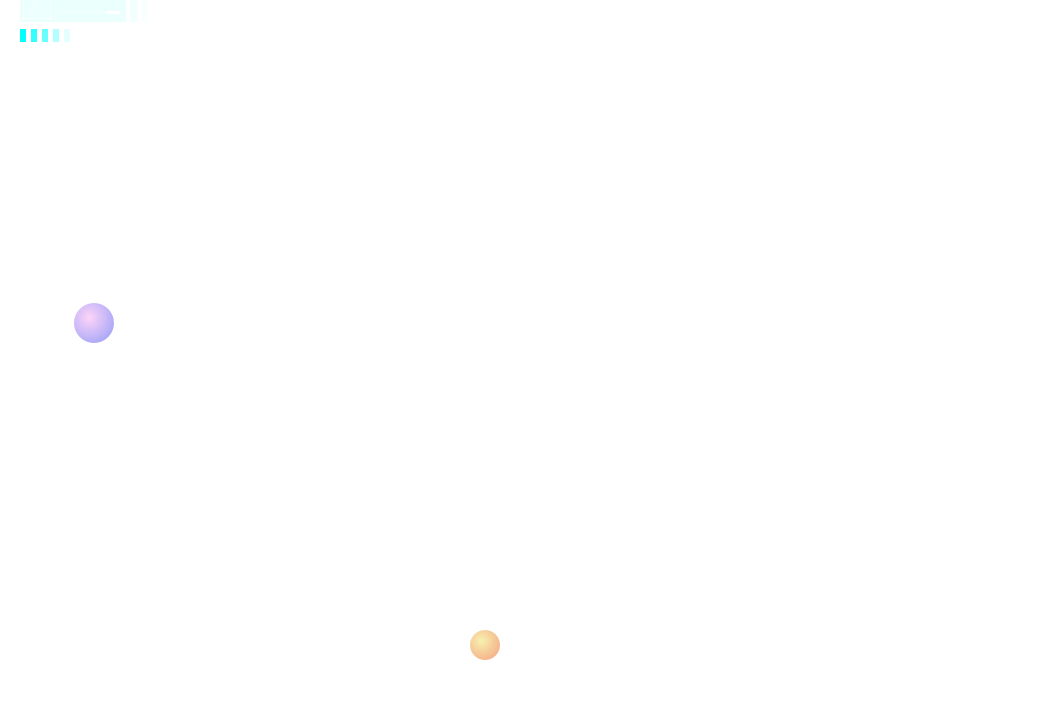
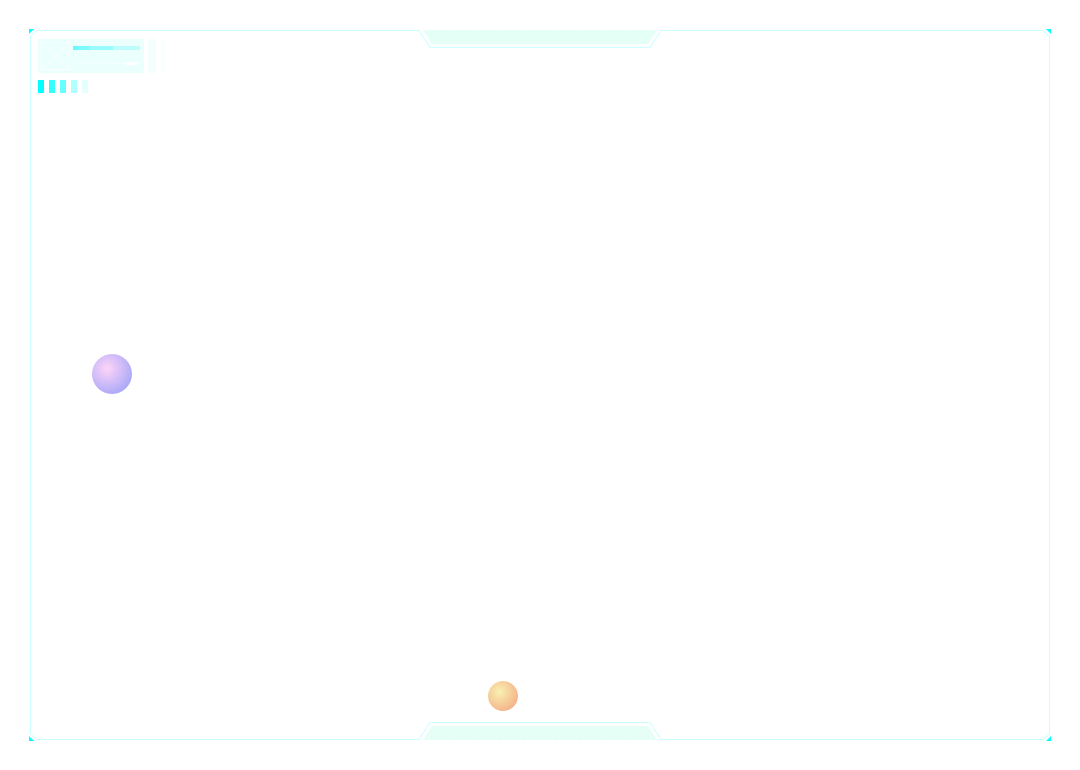
完成首页右边部分

diff --git a/match-web/page/home/home.html b/match-web/page/home/home.html
@@ -151,9 +151,6 @@
                     </div>
                 </div>
                 <div class="home-middle-box">
-                    <div class="middle-bg-icon middle-bg-icon1"></div>
-                    <div class="middle-bg-icon middle-bg-icon2"></div>
-                    <div class="middle-bg-icon middle-bg-icon3"></div>
                     <div class="grap-box">
 
                     </div>
@@ -177,7 +174,21 @@
                         <em style="width: 140px" class="right"></em>
                     </div>
                     <div class="home-right-content">
-                        <div class="home-dynamic"></div>
+                        <div class="home-dynamic">
+                            <div class="home-dynamic-content">
+                                <ul>
+                                    <li><div class="content"><i>王小明</i>完成XXXXX题，获得<i>20分</i>，当前累积得分<i>20分</i>，团队总分<i>120分</i></div></li>
+                                    <li><div class="content"><i>王小明</i>完成XXXXX题，获得<i>20分</i>，当前累积得分<i>20分</i>，团队总分<i>120分</i></div></li>
+                                    <li><div class="content"><i>王小明</i>完成XXXXX题，获得<i>20分</i>，当前累积得分<i>20分</i>，团队总分<i>120分</i></div></li>
+                                    <li><div class="content"><i>王小明</i>完成XXXXX题，获得<i>20分</i>，当前累积得分<i>20分</i>，团队总分<i>120分</i></div></li>
+                                    <li><div class="content"><i>王小明</i>完成XXXXX题，获得<i>20分</i>，当前累积得分<i>20分</i>，团队总分<i>120分</i></div></li>
+                                    <li><div class="content"><i>王小明</i>完成XXXXX题，获得<i>20分</i>，当前累积得分<i>20分</i>，团队总分<i>120分</i></div></li>
+                                    <li><div class="content"><i>王小明</i>完成XXXXX题，获得<i>20分</i>，当前累积得分<i>20分</i>，团队总分<i>120分</i></div></li>
+                                    <li><div class="content"><i>王小明</i>完成XXXXX题，获得<i>20分</i>，当前累积得分<i>20分</i>，团队总分<i>120分</i></div></li>
+                                    <li><div class="content"><i>王小明</i>完成XXXXX题，获得<i>20分</i>，当前累积得分<i>20分</i>，团队总分<i>120分</i></div></li>
+                                </ul>
+                            </div>
+                        </div>
                         <div class="home-left-bottom">
                             <div class="bottom-left-icon" style="width: 75px"></div>
                             <div class="bottom-middle-icon" style="width: 90px">

diff --git a/match-web/static/css/home/home.css b/match-web/static/css/home/home.css
@@ -162,44 +162,15 @@ body{
     height: 100%;
     float: left;
     box-sizing: border-box;
-    padding: 20px;
     background: rgba(247, 247, 247, 0.1);
     position: relative;
 }
-.home-middle-box .middle-bg-icon{
-    position: absolute;
-    height: 100%;
-}
-.home-middle-box .middle-bg-icon1{
-    width: 25px;
-    background: url("../../img/home/img_frame_style3_1.png");
-    background-size: 100% 97%;
-    background-repeat: no-repeat;
-    left: 20px;
-    top: 10px;
-}
-.home-middle-box .middle-bg-icon2{
-
-}
-.home-middle-box .middle-bg-icon3{
-    width: 25px;
-    background: url("../../img/home/img_frame_style3_1_2.png");
-    background-size: 100% 100%;
-    background-repeat: no-repeat;
-    top: 10px;
-    right: 20px;
-}
-
 .grap-box{
     width: 100%;
     height: 100%;
     background: url("../../img/home/img_star_bg.png");
     background-size: 100% 100%;
 }
-
-
-
-
 
 .home-right-box{
     width: 250px;
@@ -283,12 +254,55 @@ body{
 .home-right-box .home-right-content{
     width: 100%;
     height: 400px;
-    background: red;
 }
 .home-right-box .home-right-content .home-dynamic{
     width: 100%;
     height: 350px;
-    background: blue;
+    position: relative;
+}
+
+.home-right-box .home-right-content .home-dynamic .home-dynamic-content{
+    width: 100%;
+    height: 100%;
+    position: absolute;
+    left: 0px;
+    top: 0px;
+    box-sizing: border-box;
+    padding: 0 20px;
+    overflow-y: auto;
+}
+.home-dynamic-content ul{
+
+}
+.home-dynamic-content ul li{
+    width: 100%;
+    line-height: 20px;
+    margin-bottom: 10px;
+    font-family: PingFangSC-Regular;
+    font-size: 13px;
+    color: rgba(1,255,255,0.54);
+    letter-spacing: 0.71px;
+}
+.home-dynamic-content ul li:before{
+    content: '';
+    width: 12px;
+    height: 12px;
+    display: inline-block;
+    background: white;
+    border-radius: 10px;
+    box-sizing: border-box;
+    border: 4px solid #979797;
+    margin-top: 3px;
+    float: left;
+}
+.home-dynamic-content ul li .content{
+    width: 195px;
+    box-sizing: border-box;
+    display: inline-block;
+    padding-left: 5px;
+}
+.home-dynamic-content ul li i{
+    color: white;
 }
 
 
